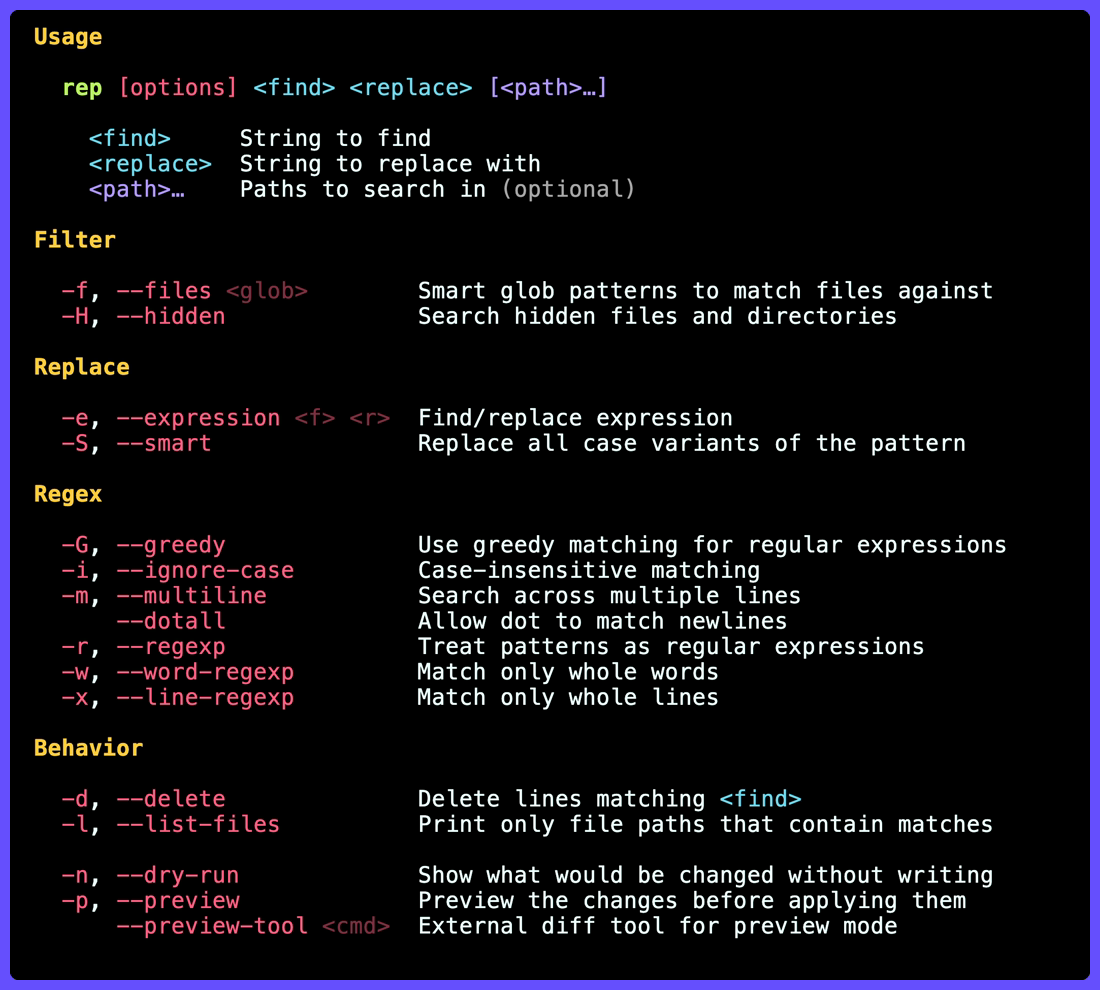
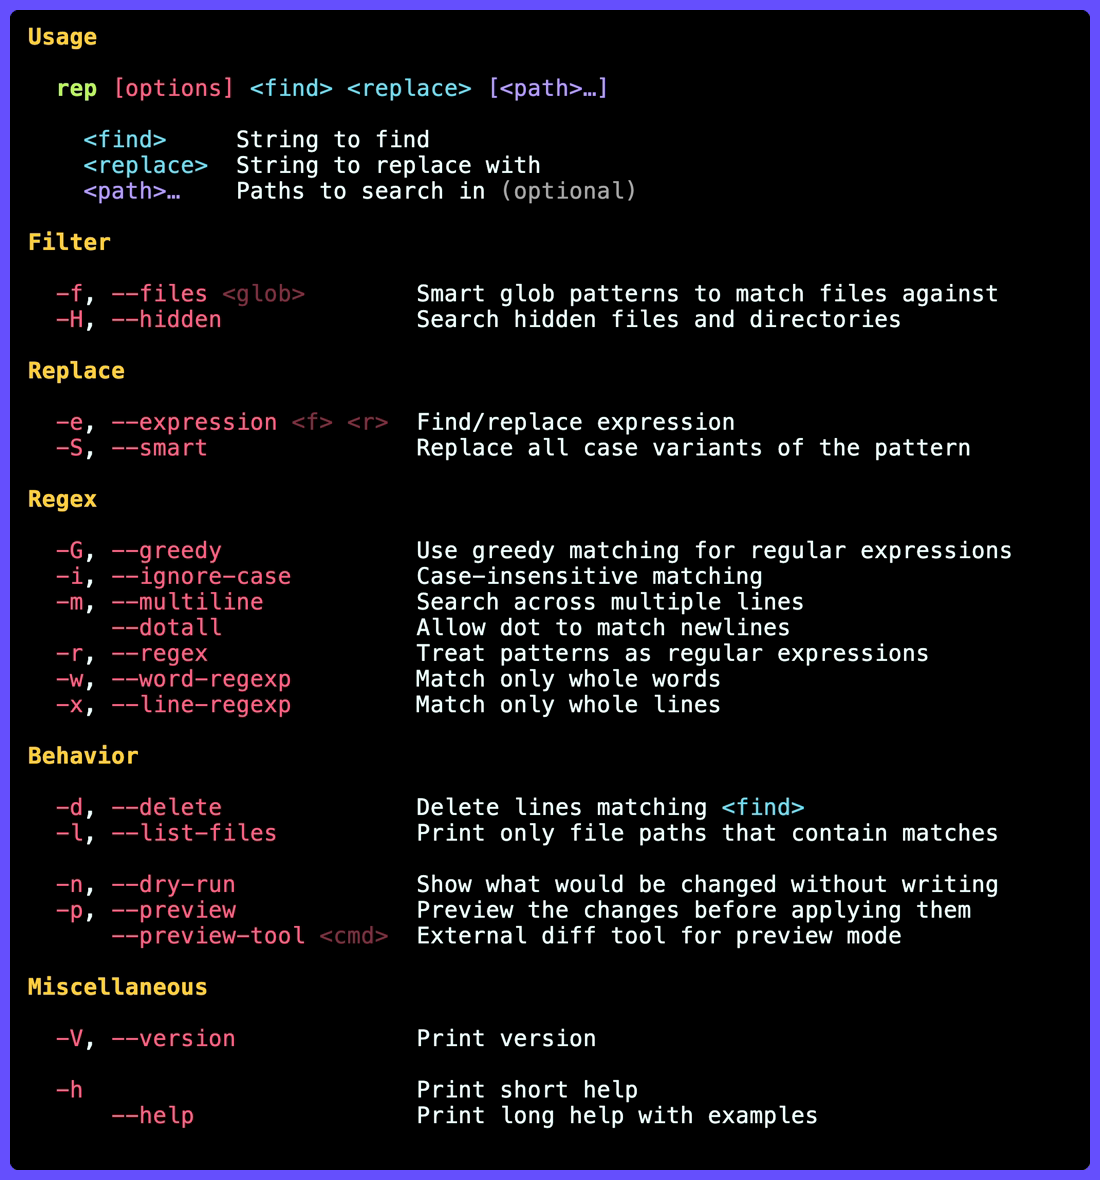
help: Add misc section

diff --git a/src/main.rs b/src/main.rs
@@ -55,7 +55,7 @@ struct Cli {
     dotall: bool,
 
     /// Use regex
-    #[arg(short = 'r', long = "regexp")]
+    #[arg(short = 'r', long = "regex", alias = "regexp")]
     regexp: bool,
 
     /// Preserve-case replacement
@@ -149,7 +149,7 @@ fn print_help() {
   {red}-i{reset}, {red}--ignore-case{reset}         Case-insensitive matching
   {red}-m{reset}, {red}--multiline{reset}           Search across multiple lines
       {red}--dotall{reset}              Allow dot to match newlines
-  {red}-r{reset}, {red}--regexp{reset}              Treat patterns as regular expressions
+  {red}-r{reset}, {red}--regex{reset}               Treat patterns as regular expressions
   {red}-w{reset}, {red}--word-regexp{reset}         Match only whole words
   {red}-x{reset}, {red}--line-regexp{reset}         Match only whole lines
 
@@ -161,6 +161,13 @@ fn print_help() {
   {red}-n{reset}, {red}--dry-run{reset}             Show what would be changed without writing
   {red}-p{reset}, {red}--preview{reset}             Preview the changes before applying them
       {red}--preview-tool {dim}<cmd>{reset}  External diff tool for preview mode
+
+{yellow}{bold}Miscellaneous{reset}
+
+  {red}-V{reset}, {red}--version{reset}             Print version
+
+  {red}-h{reset}                        Print short help
+      {red}--help{reset}                Print long help with examples
 "
     );
     print!("{text}");
@@ -203,10 +210,10 @@ fn print_help_long() {
   {green}${reset} rep --preview foo bar
 
   {grey}# Replace \"1.2.3\" and \"3.2.1\" with \"4.5.6\" in all files{reset}
-  {green}${reset} rep --regexp '[13]\\.2\\.[13]' 4.5.6
+  {green}${reset} rep --regex '[13]\\.2\\.[13]' 4.5.6
 
   {grey}# Swap \"foo.bar\" with \"bar.foo\" in all files{reset}
-  {green}${reset} rep --regexp '(foo)\\.(bar)' '$2.$1'
+  {green}${reset} rep --regex '(foo)\\.(bar)' '$2.$1'
 
   {grey}# Replace \"f.oo\" and \"F.OO\" with \"bar\"{reset}
   {green}${reset} rep --ignore-case 'f.oo' bar

diff --git a/README.md b/README.md
@@ -18,7 +18,7 @@ cargo install --git https://github.com/gechr/rep
 
 ## Usage
 
-<img src="assets/help.png" alt="help" width="650">
+<img src="assets/help.png" alt="help" width="700">
 
 ## Examples
 
@@ -39,10 +39,10 @@ rep -f '=Dockerfile' --hidden foo bar
 rep --preview foo bar
 
 # Replace "1.2.3" and "3.2.1" with "4.5.6" in all files
-rep --regexp '[13]\.2\.[13]' 4.5.6
+rep --regex '[13]\.2\.[13]' 4.5.6
 
 # Swap "foo.bar" with "bar.foo" in all files
-rep --regexp '(foo)\.(bar)' '$2.$1'
+rep --regex '(foo)\.(bar)' '$2.$1'
 
 # Replace "f.oo" and "F.OO" with "bar"
 rep --ignore-case 'f.oo' bar